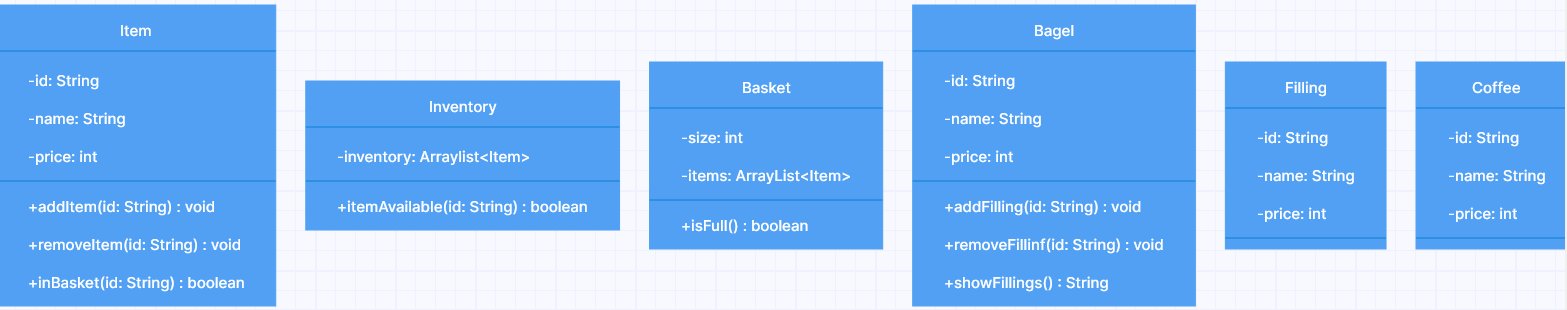
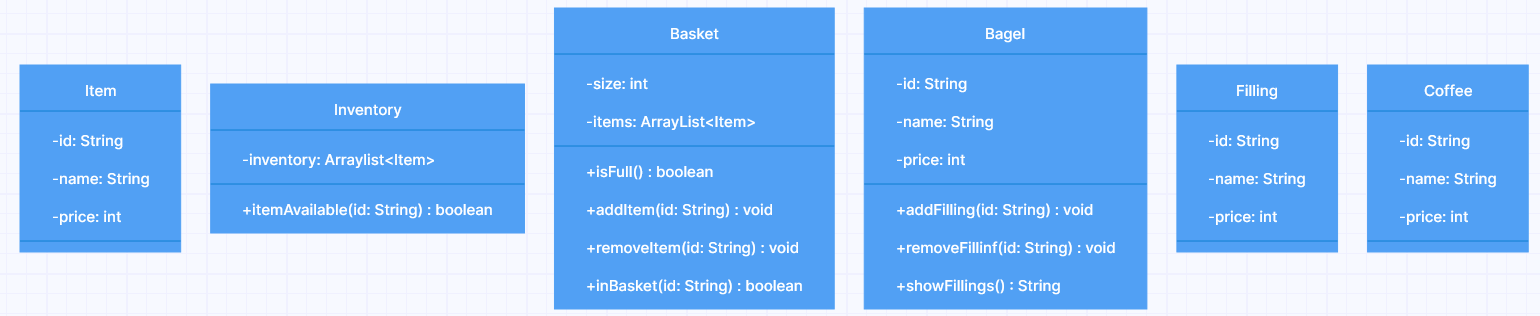
Basket test updated and passed

diff --git a/src/test/java/com/booleanuk/core/BasketTest.java b/src/test/java/com/booleanuk/core/BasketTest.java
@@ -7,13 +7,13 @@ class BasketTest {
 
 
 	@Test
-	public void addBagelTest() {
+	public void addItemTest() {
 		Inventory inventory = new Inventory();
 		Basket basket = new Basket(inventory);
 		Assertions.assertFalse(basket.inBasket("BGLP"));
 		Assertions.assertFalse(basket.inBasket("BGLO"));
 		try {
-			basket.addBagel("BGLP");
+			basket.addItem("BGLP");
 		} catch (NotInInventoryException e) {
 			throw new RuntimeException(e);
 		}
@@ -22,18 +22,18 @@ class BasketTest {
 	}
 
 	@Test
-	public void removeBagelTest() {
+	public void removeItemTest() {
 		Inventory inventory = new Inventory();
 		Basket basket = new Basket(inventory);
 		try {
-			basket.addBagel("BGLP");
+			basket.addItem("BGLP");
 		} catch (NotInInventoryException e) {
 			throw new RuntimeException(e);
 		}
 		Assertions.assertTrue(basket.inBasket("BGLP"));
 		Assertions.assertFalse(basket.inBasket("BGLO"));
 		try {
-			basket.removeBagel("BGLP");
+			basket.removeItem("BGLP");
 		} catch (NotInBasketException e) {
 			throw new RuntimeException(e);
 		}
@@ -47,20 +47,33 @@ class BasketTest {
 		Basket basket = new Basket(inventory);
 		Assertions.assertFalse(basket.isFull());
 		try {
-			basket.addBagel("BGLP");
-			basket.addBagel("BGLO");
-			basket.addBagel("BGLP");
+			basket.addItem("BGLP");
+			basket.addItem("BGLO");
+			basket.addItem("BGLP");
 		} catch (NotInInventoryException e) {
 			throw new RuntimeException(e);
 		}
 		Assertions.assertTrue(basket.isFull());
 
 		try {
-			basket.removeBagel("BGLP");
+			basket.removeItem("BGLP");
 		} catch (NotInBasketException e) {
 			throw new RuntimeException(e);
 		}
 		Assertions.assertFalse(basket.isFull());
+
+	}
+	@Test
+	public void inBasketTest(){
+		Inventory inventory = new Inventory();
+		Basket basket = new Basket(inventory);
+		Assertions.assertFalse(basket.inBasket("BGLP"));
+		try {
+			basket.addItem("BGLP");
+		} catch (NotInInventoryException e) {
+			throw new RuntimeException(e);
+		}
+		Assertions.assertTrue(basket.inBasket("BGLP"));
 
 	}
 

diff --git a/src/main/java/com/booleanuk/core/Basket.java b/src/main/java/com/booleanuk/core/Basket.java
@@ -16,7 +16,7 @@ public class Basket {
 		return items.contains(id);
 	}
 
-	public void addBagel(String id) throws NotInInventoryException {
+	public void addItem(String id) throws NotInInventoryException {
 		if (inventory.inInventory(id)) {
 			if (!isFull()) {
 				items.add(id);
@@ -25,7 +25,7 @@ public class Basket {
 		else {throw new NotInInventoryException(id);}
 	}
 
-	public void removeBagel(String id) throws NotInBasketException {
+	public void removeItem(String id) throws NotInBasketException {
 		if (items.contains(id)) {
 			items.remove(id);
 		} else {
